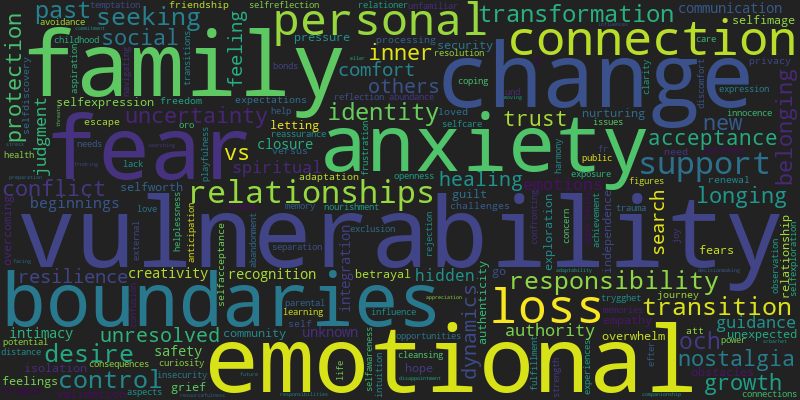
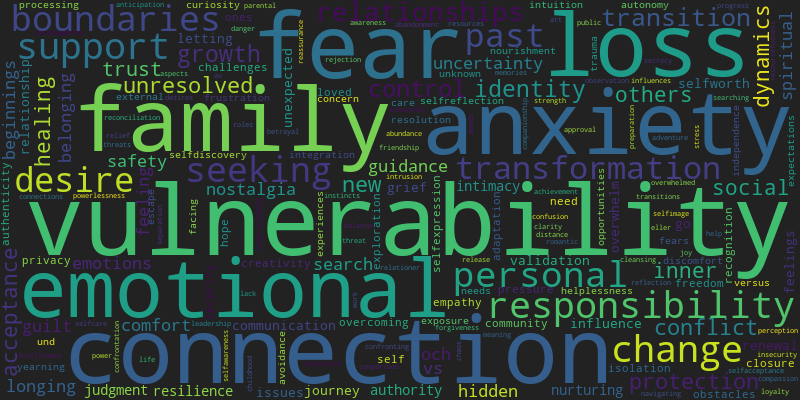
Add files via upload

diff --git a/index.html b/index.html
@@ -1,6 +1,6 @@
 <div style="padding-top: 50px;"></div>
 <h1 style="text-align:center;">Dreamverse State</h1>
-<h2 style="text-align:center;">October 31, 2025</h2>
+<h2 style="text-align:center;">November 30, 2025</h2>
 <div style="padding: 80px;"><html>
     <head>
         <meta charset="utf-8">
@@ -91,8 +91,8 @@
                   
 
                   // parsing and collecting nodes and edges from the python
-                  nodes = new vis.DataSet([{"color": "#72CABF", "font": {"color": "white"}, "id": "new beginnings", "label": "new beginnings", "shape": "dot", "title": "new beginnings"}, {"color": "#72CABF", "font": {"color": "white"}, "id": "nurturing", "label": "nurturing", "shape": "dot", "title": "nurturing"}, {"color": "#E8A8C2", "font": {"color": "white"}, "id": "transformation", "label": "transformation", "shape": "dot", "title": "transformation"}, {"color": "#72CABF", "font": {"color": "white"}, "id": "responsibility", "label": "responsibility", "shape": "dot", "title": "responsibility"}, {"color": "#758E83", "font": {"color": "white"}, "id": "overcoming obstacles", "label": "overcoming obstacles", "shape": "dot", "title": "overcoming obstacles"}, {"color": "#758E83", "font": {"color": "white"}, "id": "personal growth", "label": "personal growth", "shape": "dot", "title": "personal growth"}, {"color": "#E8A8C2", "font": {"color": "white"}, "id": "identity", "label": "identity", "shape": "dot", "title": "identity"}, {"color": "#AB8CD3", "font": {"color": "white"}, "id": "vulnerability", "label": "vulnerability", "shape": "dot", "title": "vulnerability"}, {"color": "#E8A8C2", "font": {"color": "white"}, "id": "selfdiscovery", "label": "selfdiscovery", "shape": "dot", "title": "selfdiscovery"}, {"color": "#AB8CD3", "font": {"color": "white"}, "id": "resilience", "label": "resilience", "shape": "dot", "title": "resilience"}, {"color": "#AB8CD3", "font": {"color": "white"}, "id": "change", "label": "change", "shape": "dot", "title": "change"}, {"color": "#E8A8C2", "font": {"color": "white"}, "id": "nostalgia", "label": "nostalgia", "shape": "dot", "title": "nostalgia"}, {"color": "#E8A8C2", "font": {"color": "white"}, "id": "transition", "label": "transition", "shape": "dot", "title": "transition"}, {"color": "#AB8CD3", "font": {"color": "white"}, "id": "boundaries", "label": "boundaries", "shape": "dot", "title": "boundaries"}, {"color": "#2F40C7", "font": {"color": "white"}, "id": "transition change", "label": "transition change", "shape": "dot", "title": "transition change"}, {"color": "#2F40C7", "font": {"color": "white"}, "id": "letting go", "label": "letting go", "shape": "dot", "title": "letting go"}, {"color": "#AB8CD3", "font": {"color": "white"}, "id": "acceptance", "label": "acceptance", "shape": "dot", "title": "acceptance"}, {"color": "#3BB8AD", "font": {"color": "white"}, "id": "anxiety", "label": "anxiety", "shape": "dot", "title": "anxiety"}, {"color": "#E8A8C2", "font": {"color": "white"}, "id": "belonging", "label": "belonging", "shape": "dot", "title": "belonging"}, {"color": "#473F79", "font": {"color": "white"}, "id": "unresolved emotions", "label": "unresolved emotions", "shape": "dot", "title": "unresolved emotions"}, {"color": "#473F79", "font": {"color": "white"}, "id": "longing", "label": "longing", "shape": "dot", "title": "longing"}, {"color": "#883E22", "font": {"color": "white"}, "id": "recognition", "label": "recognition", "shape": "dot", "title": "recognition"}, {"color": "#883E22", "font": {"color": "white"}, "id": "selfworth", "label": "selfworth", "shape": "dot", "title": "selfworth"}, {"color": "#AB8CD3", "font": {"color": "white"}, "id": "fear", "label": "fear", "shape": "dot", "title": "fear"}, {"color": "#AB8CD3", "font": {"color": "white"}, "id": "family dynamics", "label": "family dynamics", "shape": "dot", "title": "family dynamics"}, {"color": "#AB8CD3", "font": {"color": "white"}, "id": "selfimage", "label": "selfimage", "shape": "dot", "title": "selfimage"}, {"color": "#AB8CD3", "font": {"color": "white"}, "id": "exposure", "label": "exposure", "shape": "dot", "title": "exposure"}, {"color": "#AB8CD3", "font": {"color": "white"}, "id": "intimacy", "label": "intimacy", "shape": "dot", "title": "intimacy"}, {"color": "#AB8CD3", "font": {"color": "white"}, "id": "trust", "label": "trust", "shape": "dot", "title": "trust"}, {"color": "#72CABF", "font": {"color": "white"}, "id": "protection", "label": "protection", "shape": "dot", "title": "protection"}, {"color": "#3BB8AD", "font": {"color": "white"}, "id": "loss control", "label": "loss control", "shape": "dot", "title": "loss control"}, {"color": "#AB8CD3", "font": {"color": "white"}, "id": "trust issues", "label": "trust issues", "shape": "dot", "title": "trust issues"}, {"color": "#AB8CD3", "font": {"color": "white"}, "id": "betrayal", "label": "betrayal", "shape": "dot", "title": "betrayal"}, {"color": "#AB8CD3", "font": {"color": "white"}, "id": "connection", "label": "connection", "shape": "dot", "title": "connection"}, {"color": "#E8A8C2", "font": {"color": "white"}, "id": "selfexpression", "label": "selfexpression", "shape": "dot", "title": "selfexpression"}, {"color": "#72CABF", "font": {"color": "white"}, "id": "helplessness", "label": "helplessness", "shape": "dot", "title": "helplessness"}, {"color": "#72CABF", "font": {"color": "white"}, "id": "support", "label": "support", "shape": "dot", "title": "support"}, {"color": "#AB8CD3", "font": {"color": "white"}, "id": "overwhelm", "label": "overwhelm", "shape": "dot", "title": "overwhelm"}, {"color": "#AB8CD3", "font": {"color": "white"}, "id": "family relationships", "label": "family relationships", "shape": "dot", "title": "family relationships"}, {"color": "#A21CA7", "font": {"color": "white"}, "id": "guilt", "label": "guilt", "shape": "dot", "title": "guilt"}, {"color": "#A21CA7", "font": {"color": "white"}, "id": "fear judgment", "label": "fear judgment", "shape": "dot", "title": "fear judgment"}, {"color": "#3BB8AD", "font": {"color": "white"}, "id": "fear anxiety", "label": "fear anxiety", "shape": "dot", "title": "fear anxiety"}, {"color": "#D29A12", "font": {"color": "white"}, "id": "loss", "label": "loss", "shape": "dot", "title": "loss"}, {"color": "#D29A12", "font": {"color": "white"}, "id": "grief", "label": "grief", "shape": "dot", "title": "grief"}]);
-                  edges = new vis.DataSet([{"from": "new beginnings", "to": "nurturing", "value": 4}, {"from": "new beginnings", "to": "transformation", "value": 6}, {"from": "new beginnings", "to": "responsibility", "value": 5}, {"from": "nurturing", "to": "responsibility", "value": 5}, {"from": "transformation", "to": "identity", "value": 6}, {"from": "transformation", "to": "vulnerability", "value": 4}, {"from": "transformation", "to": "selfdiscovery", "value": 4}, {"from": "responsibility", "to": "vulnerability", "value": 5}, {"from": "responsibility", "to": "anxiety", "value": 4}, {"from": "responsibility", "to": "protection", "value": 7}, {"from": "responsibility", "to": "support", "value": 5}, {"from": "overcoming obstacles", "to": "personal growth", "value": 4}, {"from": "identity", "to": "change", "value": 5}, {"from": "identity", "to": "transition", "value": 5}, {"from": "identity", "to": "vulnerability", "value": 4}, {"from": "identity", "to": "loss control", "value": 4}, {"from": "identity", "to": "boundaries", "value": 5}, {"from": "identity", "to": "selfexpression", "value": 4}, {"from": "vulnerability", "to": "resilience", "value": 4}, {"from": "vulnerability", "to": "change", "value": 6}, {"from": "vulnerability", "to": "acceptance", "value": 4}, {"from": "vulnerability", "to": "transition", "value": 4}, {"from": "vulnerability", "to": "anxiety", "value": 11}, {"from": "vulnerability", "to": "fear", "value": 6}, {"from": "vulnerability", "to": "family dynamics", "value": 4}, {"from": "vulnerability", "to": "selfimage", "value": 7}, {"from": "vulnerability", "to": "boundaries", "value": 21}, {"from": "vulnerability", "to": "exposure", "value": 6}, {"from": "vulnerability", "to": "intimacy", "value": 6}, {"from": "vulnerability", "to": "trust", "value": 4}, {"from": "vulnerability", "to": "protection", "value": 5}, {"from": "vulnerability", "to": "loss control", "value": 9}, {"from": "vulnerability", "to": "trust issues", "value": 4}, {"from": "vulnerability", "to": "betrayal", "value": 4}, {"from": "vulnerability", "to": "connection", "value": 5}, {"from": "resilience", "to": "change", "value": 4}, {"from": "change", "to": "boundaries", "value": 4}, {"from": "nostalgia", "to": "transition", "value": 6}, {"from": "transition", "to": "anxiety", "value": 4}, {"from": "transition", "to": "belonging", "value": 4}, {"from": "boundaries", "to": "selfworth", "value": 5}, {"from": "boundaries", "to": "protection", "value": 4}, {"from": "boundaries", "to": "trust", "value": 4}, {"from": "boundaries", "to": "loss control", "value": 6}, {"from": "boundaries", "to": "overwhelm", "value": 4}, {"from": "boundaries", "to": "family relationships", "value": 4}, {"from": "boundaries", "to": "intimacy", "value": 4}, {"from": "transition change", "to": "letting go", "value": 4}, {"from": "anxiety", "to": "protection", "value": 4}, {"from": "anxiety", "to": "loss control", "value": 6}, {"from": "unresolved emotions", "to": "longing", "value": 4}, {"from": "recognition", "to": "selfworth", "value": 4}, {"from": "protection", "to": "helplessness", "value": 4}, {"from": "loss control", "to": "fear anxiety", "value": 4}, {"from": "guilt", "to": "fear judgment", "value": 4}, {"from": "loss", "to": "grief", "value": 4}]);
+                  nodes = new vis.DataSet([{"color": "#FEB782", "font": {"color": "white"}, "id": "nostalgia", "label": "nostalgia", "shape": "dot", "title": "nostalgia"}, {"color": "#FEB782", "font": {"color": "white"}, "id": "selfreflection", "label": "selfreflection", "shape": "dot", "title": "selfreflection"}, {"color": "#7E4774", "font": {"color": "white"}, "id": "unresolved emotions", "label": "unresolved emotions", "shape": "dot", "title": "unresolved emotions"}, {"color": "#7E4774", "font": {"color": "white"}, "id": "closure", "label": "closure", "shape": "dot", "title": "closure"}, {"color": "#9BC26F", "font": {"color": "white"}, "id": "loss", "label": "loss", "shape": "dot", "title": "loss"}, {"color": "#F9B748", "font": {"color": "white"}, "id": "change", "label": "change", "shape": "dot", "title": "change"}, {"color": "#C4CDB7", "font": {"color": "white"}, "id": "vulnerability", "label": "vulnerability", "shape": "dot", "title": "vulnerability"}, {"color": "#9BC26F", "font": {"color": "white"}, "id": "grief", "label": "grief", "shape": "dot", "title": "grief"}, {"color": "#F9B748", "font": {"color": "white"}, "id": "letting go", "label": "letting go", "shape": "dot", "title": "letting go"}, {"color": "#F9B748", "font": {"color": "white"}, "id": "transformation", "label": "transformation", "shape": "dot", "title": "transformation"}, {"color": "#284AE1", "font": {"color": "white"}, "id": "family dynamics", "label": "family dynamics", "shape": "dot", "title": "family dynamics"}, {"color": "#284AE1", "font": {"color": "white"}, "id": "responsibility", "label": "responsibility", "shape": "dot", "title": "responsibility"}, {"color": "#284AE1", "font": {"color": "white"}, "id": "boundaries", "label": "boundaries", "shape": "dot", "title": "boundaries"}, {"color": "#C4CDB7", "font": {"color": "white"}, "id": "resilience", "label": "resilience", "shape": "dot", "title": "resilience"}, {"color": "#C4CDB7", "font": {"color": "white"}, "id": "uncertainty", "label": "uncertainty", "shape": "dot", "title": "uncertainty"}, {"color": "#C4CDB7", "font": {"color": "white"}, "id": "embarrassment", "label": "embarrassment", "shape": "dot", "title": "embarrassment"}, {"color": "#C4CDB7", "font": {"color": "white"}, "id": "loss control", "label": "loss control", "shape": "dot", "title": "loss control"}, {"color": "#C4CDB7", "font": {"color": "white"}, "id": "trust", "label": "trust", "shape": "dot", "title": "trust"}, {"color": "#C4CDB7", "font": {"color": "white"}, "id": "selfacceptance", "label": "selfacceptance", "shape": "dot", "title": "selfacceptance"}, {"color": "#C4CDB7", "font": {"color": "white"}, "id": "protection", "label": "protection", "shape": "dot", "title": "protection"}, {"color": "#284AE1", "font": {"color": "white"}, "id": "nurturing", "label": "nurturing", "shape": "dot", "title": "nurturing"}, {"color": "#C4CDB7", "font": {"color": "white"}, "id": "anxiety", "label": "anxiety", "shape": "dot", "title": "anxiety"}, {"color": "#C4CDB7", "font": {"color": "white"}, "id": "emotional release", "label": "emotional release", "shape": "dot", "title": "emotional release"}, {"color": "#C4CDB7", "font": {"color": "white"}, "id": "fear", "label": "fear", "shape": "dot", "title": "fear"}, {"color": "#F9B748", "font": {"color": "white"}, "id": "selfexpression", "label": "selfexpression", "shape": "dot", "title": "selfexpression"}, {"color": "#C4CDB7", "font": {"color": "white"}, "id": "exposure", "label": "exposure", "shape": "dot", "title": "exposure"}, {"color": "#F9B748", "font": {"color": "white"}, "id": "authenticity", "label": "authenticity", "shape": "dot", "title": "authenticity"}, {"color": "#F9B748", "font": {"color": "white"}, "id": "identity", "label": "identity", "shape": "dot", "title": "identity"}, {"color": "#C4CDB7", "font": {"color": "white"}, "id": "privacy", "label": "privacy", "shape": "dot", "title": "privacy"}, {"color": "#C4CDB7", "font": {"color": "white"}, "id": "acceptance", "label": "acceptance", "shape": "dot", "title": "acceptance"}, {"color": "#F9B748", "font": {"color": "white"}, "id": "healing", "label": "healing", "shape": "dot", "title": "healing"}, {"color": "#C4CDB7", "font": {"color": "white"}, "id": "powerlessness", "label": "powerlessness", "shape": "dot", "title": "powerlessness"}, {"color": "#F9B748", "font": {"color": "white"}, "id": "adaptation", "label": "adaptation", "shape": "dot", "title": "adaptation"}, {"color": "#F9B748", "font": {"color": "white"}, "id": "personal growth", "label": "personal growth", "shape": "dot", "title": "personal growth"}, {"color": "#284AE1", "font": {"color": "white"}, "id": "new beginnings", "label": "new beginnings", "shape": "dot", "title": "new beginnings"}, {"color": "#F9B748", "font": {"color": "white"}, "id": "renewal", "label": "renewal", "shape": "dot", "title": "renewal"}, {"color": "#284AE1", "font": {"color": "white"}, "id": "growth", "label": "growth", "shape": "dot", "title": "growth"}, {"color": "#284AE1", "font": {"color": "white"}, "id": "empathy", "label": "empathy", "shape": "dot", "title": "empathy"}, {"color": "#284AE1", "font": {"color": "white"}, "id": "guilt", "label": "guilt", "shape": "dot", "title": "guilt"}, {"color": "#E7E22E", "font": {"color": "white"}, "id": "recognition", "label": "recognition", "shape": "dot", "title": "recognition"}, {"color": "#E7E22E", "font": {"color": "white"}, "id": "achievement", "label": "achievement", "shape": "dot", "title": "achievement"}, {"color": "#F9B748", "font": {"color": "white"}, "id": "relationships", "label": "relationships", "shape": "dot", "title": "relationships"}, {"color": "#9B80AB", "font": {"color": "white"}, "id": "curiosity", "label": "curiosity", "shape": "dot", "title": "curiosity"}, {"color": "#9B80AB", "font": {"color": "white"}, "id": "intimacy", "label": "intimacy", "shape": "dot", "title": "intimacy"}, {"color": "#C4CDB7", "font": {"color": "white"}, "id": "control", "label": "control", "shape": "dot", "title": "control"}, {"color": "#284AE1", "font": {"color": "white"}, "id": "creativity", "label": "creativity", "shape": "dot", "title": "creativity"}, {"color": "#284AE1", "font": {"color": "white"}, "id": "nourishment", "label": "nourishment", "shape": "dot", "title": "nourishment"}, {"color": "#F9B748", "font": {"color": "white"}, "id": "confidence", "label": "confidence", "shape": "dot", "title": "confidence"}]);
+                  edges = new vis.DataSet([{"from": "nostalgia", "to": "selfreflection", "value": 5}, {"from": "unresolved emotions", "to": "closure", "value": 4}, {"from": "loss", "to": "change", "value": 4}, {"from": "loss", "to": "vulnerability", "value": 5}, {"from": "loss", "to": "grief", "value": 8}, {"from": "change", "to": "vulnerability", "value": 4}, {"from": "change", "to": "personal growth", "value": 4}, {"from": "change", "to": "transformation", "value": 6}, {"from": "change", "to": "identity", "value": 5}, {"from": "change", "to": "relationships", "value": 4}, {"from": "change", "to": "anxiety", "value": 5}, {"from": "vulnerability", "to": "resilience", "value": 4}, {"from": "vulnerability", "to": "embarrassment", "value": 5}, {"from": "vulnerability", "to": "loss control", "value": 12}, {"from": "vulnerability", "to": "trust", "value": 4}, {"from": "vulnerability", "to": "selfacceptance", "value": 4}, {"from": "vulnerability", "to": "responsibility", "value": 8}, {"from": "vulnerability", "to": "protection", "value": 5}, {"from": "vulnerability", "to": "nurturing", "value": 4}, {"from": "vulnerability", "to": "anxiety", "value": 11}, {"from": "vulnerability", "to": "emotional release", "value": 5}, {"from": "vulnerability", "to": "boundaries", "value": 9}, {"from": "vulnerability", "to": "fear", "value": 6}, {"from": "vulnerability", "to": "selfexpression", "value": 4}, {"from": "vulnerability", "to": "exposure", "value": 6}, {"from": "vulnerability", "to": "authenticity", "value": 4}, {"from": "vulnerability", "to": "identity", "value": 4}, {"from": "vulnerability", "to": "privacy", "value": 5}, {"from": "vulnerability", "to": "acceptance", "value": 5}, {"from": "vulnerability", "to": "transformation", "value": 8}, {"from": "vulnerability", "to": "healing", "value": 5}, {"from": "vulnerability", "to": "powerlessness", "value": 4}, {"from": "letting go", "to": "transformation", "value": 4}, {"from": "transformation", "to": "personal growth", "value": 9}, {"from": "transformation", "to": "new beginnings", "value": 5}, {"from": "transformation", "to": "renewal", "value": 6}, {"from": "transformation", "to": "growth", "value": 4}, {"from": "transformation", "to": "healing", "value": 5}, {"from": "transformation", "to": "identity", "value": 7}, {"from": "transformation", "to": "selfexpression", "value": 4}, {"from": "family dynamics", "to": "responsibility", "value": 4}, {"from": "family dynamics", "to": "boundaries", "value": 5}, {"from": "responsibility", "to": "personal growth", "value": 4}, {"from": "responsibility", "to": "protection", "value": 4}, {"from": "responsibility", "to": "new beginnings", "value": 10}, {"from": "responsibility", "to": "anxiety", "value": 9}, {"from": "responsibility", "to": "nurturing", "value": 9}, {"from": "responsibility", "to": "empathy", "value": 5}, {"from": "responsibility", "to": "boundaries", "value": 9}, {"from": "responsibility", "to": "guilt", "value": 4}, {"from": "resilience", "to": "uncertainty", "value": 4}, {"from": "uncertainty", "to": "anxiety", "value": 4}, {"from": "loss control", "to": "anxiety", "value": 4}, {"from": "protection", "to": "anxiety", "value": 4}, {"from": "nurturing", "to": "new beginnings", "value": 7}, {"from": "nurturing", "to": "growth", "value": 5}, {"from": "anxiety", "to": "powerlessness", "value": 5}, {"from": "anxiety", "to": "control", "value": 5}, {"from": "selfexpression", "to": "identity", "value": 7}, {"from": "selfexpression", "to": "confidence", "value": 4}, {"from": "selfexpression", "to": "creativity", "value": 4}, {"from": "authenticity", "to": "identity", "value": 4}, {"from": "healing", "to": "personal growth", "value": 4}, {"from": "adaptation", "to": "personal growth", "value": 4}, {"from": "personal growth", "to": "new beginnings", "value": 7}, {"from": "new beginnings", "to": "growth", "value": 7}, {"from": "new beginnings", "to": "creativity", "value": 9}, {"from": "growth", "to": "nourishment", "value": 4}, {"from": "recognition", "to": "achievement", "value": 4}, {"from": "curiosity", "to": "intimacy", "value": 4}]);
 
                   nodeColors = {};
                   allNodes = nodes.get({ returnType: "Object" });
@@ -193,104 +193,63 @@
     
 <br>
 <h1>Initial Reflection</h1>
-<h2>Across these constellations, the Dreamverse points to a season of thresholds: beginnings and endings, trust and exposure, anxiety and courage, longing and belonging. The personal work revolves around care and boundaries, worth without performance, and grief made communal. The societal mirror shows strained institutions, shifting identities, and a hunger for safer, more human containers for change.</h2>
+<h2>Across these constellations runs a simple arc: remembering → releasing → grieving → becoming. Around it sit two stabilizers—safety/agency and the hearth of family/creation—and two social currencies—recognition and closeness. Taken together, the dreams read like training for endings that lead to honest beginnings, with a steady ask: tell the truth about what hurts, what matters, and what you’re ready to grow.</h2>
 <br>
 
 <details>
-  <summary><h1>The Seed & the Shield (New Starts, Care, and Support)</h1></summary>
-  <h2>Psychological thread: a new beginning seeks protection and help while carrying the weight of responsibility. This can awaken both the inner caregiver and the helpless child.<br><br>
-Meaning: you are building something tender—relationships, roles, or projects—that need steady care, not heroic overreach.<br><br>
-Societal mirror: communities are improvising care networks where formal systems feel thin; mutual support becomes strategy, not sentiment.<br><br>
-Try this: name one beginning you’re protecting; define its true “minimum viable care.” Ask directly for one concrete form of support this week. Schedule a brief “protector off-duty” window daily to let the inner child play or rest.</h2>
+  <summary><h1>The Archive Room (Nostalgia & Self-Reflection)</h1></summary>
+  <h2><strong>Psychological meaning.</strong> Nostalgia isn’t just longing; it’s a quality check. These dreams open old files so you can compare who you were with who you are now and keep what still fits.<br><br><strong>Try this.</strong> 1) Name one trait from “back then” you truly want to keep—and one you’re ready to retire. 2) Revisit a place/song/object and write what it gave you then vs. now. 3) Ask: “If the past visited me tonight, what blessing or warning would it bring?”<br><br><strong>Collective mirror.</strong> Many are re-editing personal histories as societies re-write public ones. Memory work—done cleanly—protects against both revisionism and stagnation.</h2>
 </details>
 <br>
 
 <details>
-  <summary><h1>Becoming & Belonging (Identity in Transition)</h1></summary>
-  <h2>Psychological thread: transformation pulls on identity, nostalgia, and the urge to express who you are becoming—while asking where you fit now.<br><br>
-Meaning: belonging grows when you bring your current truth, not your past performance. Nostalgia can bless the journey but must not steer it.<br><br>
-Societal mirror: migration (online and off) and shifting norms force renegotiation of tribe and self; voice becomes home when place is uncertain.<br><br>
-Try this: draw a quick map with three identity threads you’re keeping, three you’re retiring, one you’re experimenting with. Make a micro-ritual to mark the transition—a letter to your former self, then a one-line vow to the next you.</h2>
+  <summary><h1>Open Loops (Unresolved Emotions & Closure)</h1></summary>
+  <h2><strong>Psychological meaning.</strong> The psyche hates loose ends. Unfinished conversations return in dream form until they get a boundary, a goodbye, or a clearer “this is what it meant.”<br><br><strong>Try this.</strong> 1) Write the unsent message you keep rehearsing; end it with a clear ask or a clean goodbye. 2) Create a 10-minute ritual of completion (object + words + breath). 3) Ask: “What am I keeping open because I fear the quiet that follows?”<br><br><strong>Collective mirror.</strong> Cultures with many open loops—wars, migrations, broken contracts—breed chronic vigilance. Small personal closures restore trust in endings and, by extension, in agreements.</h2>
 </details>
 <br>
 
 <details>
-  <summary><h1>Climbing the Ridge (Growth Through Obstacles)</h1></summary>
-  <h2>Psychological thread: obstacles are not detours—they are the terrain that grows capacity.<br><br>
-Meaning: what resists you is specifying the skill you need next (patience, negotiation, self-trust, pacing).<br><br>
-Societal mirror: we valorize resilience yet underfund the training; the Dreamverse insists growth is built, not declared.<br><br>
-Try this: name one current obstacle and the single skill it is asking for. Design a two-week practice to train that skill. Track “evidence of capacity” daily in one sentence.</h2>
+  <summary><h1>The Empty Chair (Loss & Grief)</h1></summary>
+  <h2><strong>Psychological meaning.</strong> Grief is love with nowhere to go. Dreams set an empty chair at the table so love can keep its seat without denying the absence.<br><br><strong>Try this.</strong> 1) Schedule grief: 15 minutes to feel/remember; then close the door. 2) Speak to the “you” that lived before the loss—what do they need to hear now? 3) Ask: “Where is grief disguising itself—as irritation, numbness, or overwork?”<br><br><strong>Collective mirror.</strong> We’re in a prolonged season of collective bereavement (people, certainties, ecosystems). Making room for grief is not indulgence; it’s maintenance of meaning.</h2>
 </details>
 <br>
 
 <details>
-  <summary><h1>Fault Lines of Intimacy (Trust, Family, and Boundaries)</h1></summary>
-  <h2>Psychological thread: vulnerability and overwhelm meet exposure, betrayal fears, and the need for clean boundaries—often in family echoes that shape self-image and intimacy.<br><br>
-Meaning: safety is not the absence of risk; it’s clarity about what is okay, not okay, and what happens next.<br><br>
-Societal mirror: falling trust in institutions amplifies personal trust tests; we rehearse cultural fractures in our closest bonds.<br><br>
-Try this: write two boundary sentences you can say verbatim (“I’m willing to… / I’m not willing to…”). Map your loyalty patterns across three generations; notice which rule still runs you. Practice a “truth in a teaspoon” disclosure with a safe person, then rest.</h2>
+  <summary><h1>Molting Season (Change, Letting Go, Transformation, Authenticity, Identity, Healing, Adaptation, Personal Growth, Renewal, Relationships, Confidence)</h1></summary>
+  <h2><strong>Psychological meaning.</strong> Transformation here is less phoenix, more snake: shed what’s too tight so movement returns. Confidence grows as expression matches essence, especially in relationships.<br><br><strong>Try this.</strong> 1) List three roles; mark which feel alive, which feel costume. Remove one micro-behavior that keeps a costume on. 2) Practice “truth in low stakes”: say one honest sentence daily where you usually perform. 3) Ask: “If I stopped managing impressions, what would I build differently this month?”<br><br><strong>Collective mirror.</strong> Whole systems are re-skinning—work, identity, belonging. The skill is paced shedding: change fast enough to be honest, slow enough to stay regulated.</h2>
 </details>
 <br>
 
 <details>
-  <summary><h1>Crossing the Threshold (Letting Go)</h1></summary>
-  <h2>Psychological thread: change requires release—of roles, stories, or timelines—before the new form stabilizes.<br><br>
-Meaning: endings are productive space; grief and relief can coexist without canceling each other.<br><br>
-Societal mirror: many systems are molting; collective endings feel chaotic when we don’t name them as rites of passage.<br><br>
-Try this: list three things you’ll keep, three you’ll gently retire, and one you’ll leave undecided for now. Create a brief goodbye ritual (object, phrase, breath), then a 30-day “liminal container” where you defer big labels.</h2>
+  <summary><h1>The Threshold of Control (Vulnerability, Resilience, Uncertainty, Embarrassment, Loss of Control, Trust, Self-Acceptance, Protection, Anxiety, Emotional Release, Fear, Exposure, Privacy, Acceptance, Powerlessness, Control)</h1></summary>
+  <h2><strong>Psychological meaning.</strong> These dreams rehearse being seen without armor and choosing when to open/close the visor. Resilience isn’t “no fear”; it’s “fear with choice.”<br><br><strong>Try this.</strong> 1) Define your “safe exposure”: what you’ll share, with whom, and when you’ll stop. 2) Practice titrated risk: a 5% stretch, not a 50% flood. 3) Ask: “Where am I calling it ‘privacy’ when it’s actually shame—and where am I calling it ‘authenticity’ when it’s oversharing?”<br><br><strong>Collective mirror.</strong> In a surveillance-heavy era, the psyche negotiates visibility. Wise boundaries are a public health measure for attention and for trust.</h2>
 </details>
 <br>
 
 <details>
-  <summary><h1>Storm of Control (Anxiety & the Need to Steer)</h1></summary>
-  <h2>Psychological thread: anxiety spikes when control thins; the nervous system demands handles, not platitudes.<br><br>
-Meaning: regulate first, reason second. Control what’s proximal (breath, posture, input), then plan the rest.<br><br>
-Societal mirror: volatility and information noise reward false certainty; wise restraint becomes a civic virtue.<br><br>
-Try this: 3-3-3 protocol—exhale longer than you inhale for 3 minutes; name 3 sensations; do 3 slow movements. Make a control map (What I steer / Influence / Witness) and act only in the first column today. Schedule a daily 10-minute “worry window,” then close it.</h2>
+  <summary><h1>The Hearth & the Workshop (Family Dynamics, Responsibility, Boundaries, Nurturing, New Beginnings, Growth, Empathy, Guilt, Creativity, Nourishment)</h1></summary>
+  <h2><strong>Psychological meaning.</strong> Care and creation draw from the same well. Guilt spikes when you pour into one vessel and the other runs low; boundaries are the tap, not a wall.<br><br><strong>Try this.</strong> 1) Name your “enough for today” in care and in craft; protect it. 2) Replace vague guilt with a clear agreement (who, what, when, how long). 3) Ask: “What kind of nourishment produces my best empathy—sleep, silence, play, protein, prayer?”<br><br><strong>Collective mirror.</strong> The care economy is under strain. Homes double as studios and sickrooms. Sustainable rhythms—at household scale—stabilize bigger systems.</h2>
 </details>
 <br>
 
 <details>
-  <summary><h1>Echoes & Yearning (Unresolved Emotion)</h1></summary>
-  <h2>Psychological thread: longing points to unfinished attachment and unlived values; it’s direction disguised as ache.<br><br>
-Meaning: when you honor the message, yearning becomes guidance; when you chase the ghost, it becomes compulsion.<br><br>
-Societal mirror: widespread displacement (physical and psychological) fuels a collective homesickness for meaning and place.<br><br>
-Try this: write an unsent letter to the person/time/place you miss; circle the needs named. Choose one need and meet it imperfectly within 48 hours. Try a 10-minute active imagination dialogue: ask the longing, “What do you want me to build here?”</h2>
+  <summary><h1>The Stage & the Mirror (Recognition & Achievement)</h1></summary>
+  <h2><strong>Psychological meaning.</strong> Recognition calibrates value—but applause can drown the inner metronome. Achievement that isn’t witnessed can feel unreal; achievement performed for witness can feel hollow.<br><br><strong>Try this.</strong> 1) Define one private metric of success that no one can “like.” 2) Before saying yes to a goal, state the felt sense you expect it to deliver—and design a daily way to feel it now. 3) Ask: “Whose gaze am I still working for?”<br><br><strong>Collective mirror.</strong> Algorithmic culture rewards visibility over depth. Rebalancing the two is a quiet act of cultural repair.</h2>
 </details>
 <br>
 
 <details>
-  <summary><h1>Mirrors of Worth (Recognition & Self-Value)</h1></summary>
-  <h2>Psychological thread: the wish to be seen meets the trap of earning worth through performance.<br><br>
-Meaning: recognition is feedback, not fuel. Self-respect must precede applause or the tank never fills.<br><br>
-Societal mirror: metrics culture turns attention into currency; opting out—at least partly—is a quiet act of sovereignty.<br><br>
-Try this: write an “enough list” (3 non-negotiables that make today sufficient). Separate goals into “expression” vs “validation.” Ask for recognition of process, not just outcomes, once this week.</h2>
-</details>
-<br>
-
-<details>
-  <summary><h1>The Inner Tribunal (Guilt & Fear of Judgment)</h1></summary>
-  <h2>Psychological thread: the inner court confuses shame (I am bad) with guilt (I did harm)—and freezes action.<br><br>
-Meaning: mature conscience repairs; shame spirals isolate. Precision here unlocks movement and repair.<br><br>
-Societal mirror: public shaming and constant visibility wire us for self-surveillance; mercy becomes countercultural.<br><br>
-Try this: label today’s sting as guilt or shame. If guilt—name impact, make a specific repair. If shame—share a tiny, safe truth with one person and practice compassionate self-talk for 2 minutes after.</h2>
-</details>
-<br>
-
-<details>
-  <summary><h1>The Room of Grief (Loss & Its Work)</h1></summary>
-  <h2>Psychological thread: grief is love with nowhere to go; it needs rhythm more than resolution.<br><br>
-Meaning: waves are normal. Let the body do grief (cry, shake, walk) so the mind doesn’t have to carry it alone.<br><br>
-Societal mirror: collective losses—lives, places, certainties—ask for public rituals, not private stoicism.<br><br>
-Try this: schedule a daily “grief dose” (5–15 minutes) with breath and movement. Keep a small altar or object of remembrance. If possible, sit in nature weekly and name aloud what you’re honoring and what you’re releasing.</h2>
+  <summary><h1>The Doorway Between Minds (Curiosity & Intimacy)</h1></summary>
+  <h2><strong>Psychological meaning.</strong> Curiosity is the engine of closeness. Intimacy fades when questions stop; it deepens when we risk being changed by the answers.<br><br><strong>Try this.</strong> 1) Ask one non-diagnostic question today (“What surprised you this week?”). 2) Share one unfinished thought rather than a polished stance. 3) Ask: “Where do I seek novelty to avoid depth—and where do I demand depth before I offer presence?”<br><br><strong>Collective mirror.</strong> In a polarized climate, curiosity is countercultural. Practiced sincerely, it rebuilds social fabric faster than agreement does.</h2>
 </details>
 <br>
 
 <details>
   <summary><h1>Final Reflections</h1></summary>
-<h2>Notice which constellation is closest right now and which feels far. Pick one small practice from its “Try this” and run it for two weeks. Then visit its neighbor—how do the boundaries of one reshape the longings of another, or the worthiness questions soften the storm of control? Let your dreams be a map: track recurring symbols, the rooms they appear in, and who is present. Share one insight with a trusted other; solitude grows roots, but witness grows branches. Move gently—beginnings need shields, endings need songs, and the space between them needs your breath.</h2>
+<h2>Let these maps stay alive. Notice which two constellations are closest for you this week—and which one sits far off, asking for a bridge. Track movement: What drifts nearer when you grieve well? What quiets when you close a loop? Which boundaries make curiosity safer—and which recognitions feel truer after a shed skin? Your dreamverse is a weather system: read it daily, travel it gently, and let its changes guide which small, honest action to take next.</h2>
     </details>
 <br>
+
 
   
 </body>
